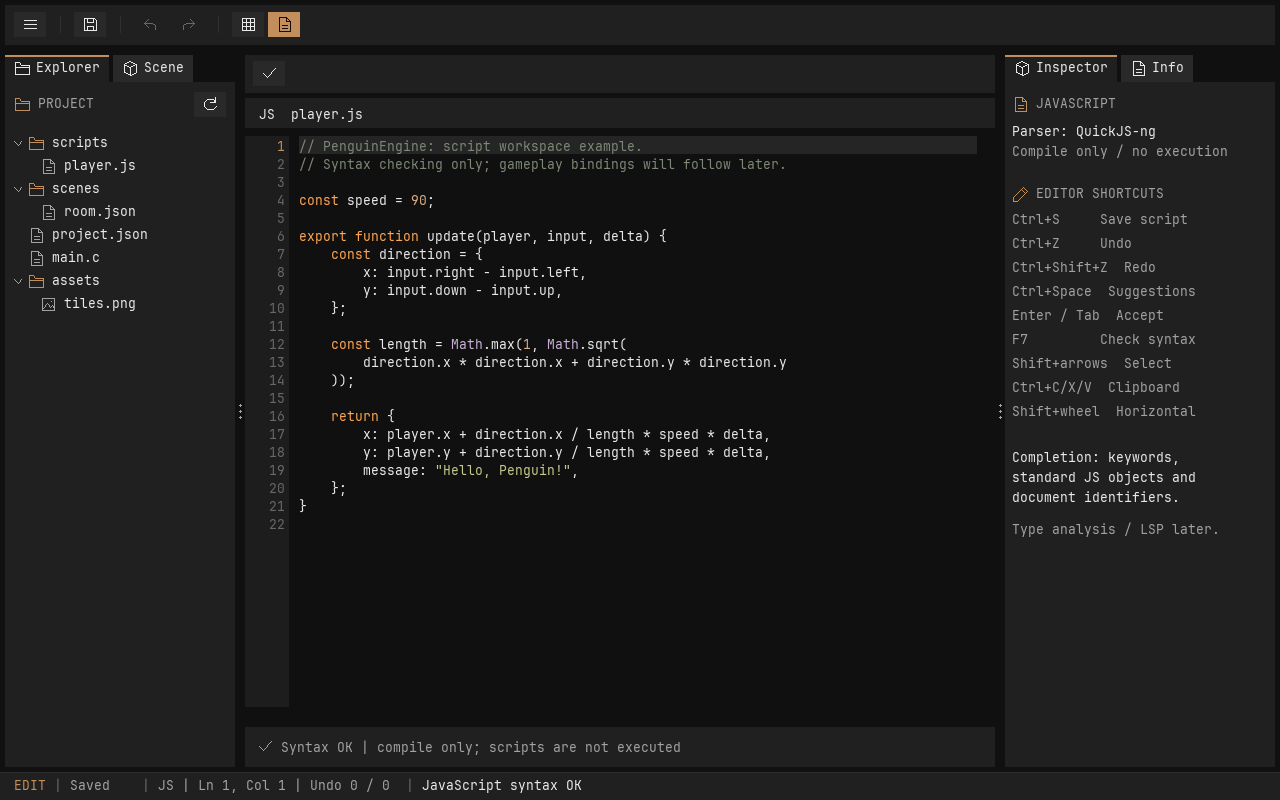
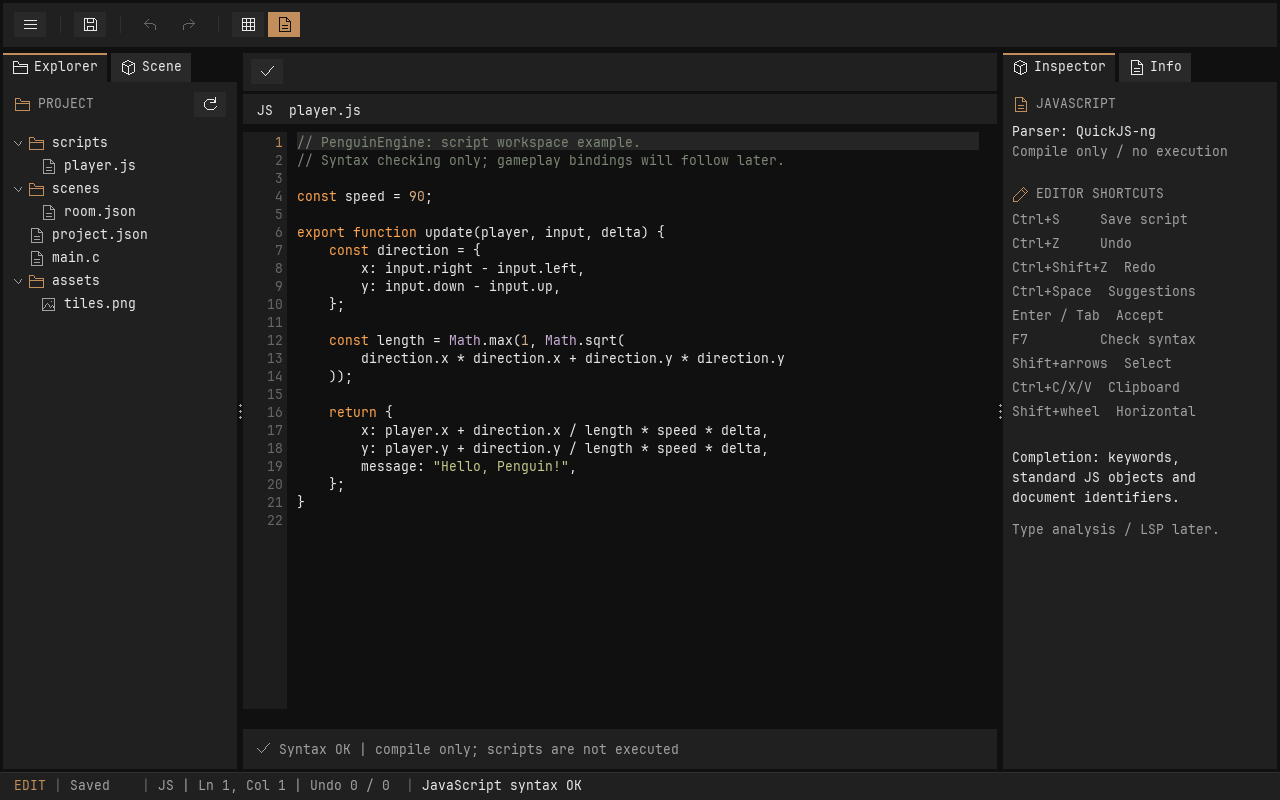
Reduce editor panel spacing to three pixels

diff --git a/editor/src/main.c b/editor/src/main.c
@@ -12,7 +12,7 @@
 #define TOP 50
 #define TABS 32
 #define BOTTOM 28
-#define PANEL_GAP 5
+#define PANEL_GAP 3
 #define GLOBAL_NAV_X 232
 #define SIDE_TOP (TOP + TABS)
 #define TREE_MAX 256
@@ -1817,8 +1817,10 @@ static bool verify_workspace_tools(void) {
     app.right_width = app.width - app.left_width - 320;
     draw();
     ok = ok && app.viewport.y == TOP + 2 * PANEL_GAP + 70;
-    /* Seven actions fit in row one; Grid is the second action in row two. */
-    smoke_click(LEFT + PANEL_GAP + 8 + 38 + 16, action_y + 32);
+    int columns = (int)((app.viewport.w - 10) / 38);
+    int grid_index = editor_view(UI_MAP_VIEW)->action_count - 1;
+    smoke_click(LEFT + PANEL_GAP + 8 + (grid_index % columns) * 38 + 16,
+                action_y + (grid_index / columns) * 32);
     ok = ok && app.grid != grid && !memcmp(&original, &app.scene, sizeof original) &&
          app.history.cursor == history_cursor && app.script.document.revision == revision &&
          !memcmp(&camera, &app.camera, sizeof camera);

diff --git a/docs/UI_BIBLIOTHEK.md b/docs/UI_BIBLIOTHEK.md
@@ -123,7 +123,7 @@ Editor-Smoke-Tests ziehen beide Spaltentrenner, klappen einen Inspector-Bereich 
 
 Nach Bedarf ergänzen wir Checkboxen/Radio-Buttons, Slider, Dropdowns, allgemeine Text-/Zahlenfelder, Menüleisten, Dialogbausteine und Listen-/Baumansichten. Dazu gehören später Tab-Navigation, eine bessere Textdarstellung und gespeicherte Benutzerlayouts. Jede Komponente soll einen kleinen Daten-/Eingabeteil und eine getrennte Darstellung erhalten. Freies Docking und ein vollständiges IDE-Framework bleiben größere, separate Aufgaben.
 
-Der Editor verwendet `UI_CANVAS` (#101010) als dunkle Grundfläche und `UI_PANEL` (#202020) für abgesetzte Panels. Toolbar, Dateibaum und Inspector haben 5 px Außenabstand. Buttons verwenden #292929, Hover #393939; die orange Akzentfarbe bleibt erhalten. Map- und Script-Arbeitsflächen berücksichtigen dieselben Abstände bei Darstellung und Eingabe.
+Der Editor verwendet `UI_CANVAS` (#101010) als dunkle Grundfläche und `UI_PANEL` (#202020) für abgesetzte Panels. Toolbar, Dateibaum und Inspector haben 3 px Außenabstand. Buttons verwenden #292929, Hover #393939; die orange Akzentfarbe bleibt erhalten. Map- und Script-Arbeitsflächen berücksichtigen dieselben Abstände bei Darstellung und Eingabe.
 
 
 Die Seitenpanels verwenden ebenfalls `UiTabs`: links **Explorer / Scene**, rechts **Inspector / Info**. Die beiden Panel-Tabgruppen und die globale Arbeitsbereichsauswahl haben unabhängige Auswahl und Reihenfolge; Tabs können innerhalb ihrer Gruppe umsortiert werden. Scene listet die lebenden Entities der bearbeiteten Szene. Ein Klick wählt die Entity aus, aktiviert Map und Inspector und ändert keine Szenendaten. Während Play oder einer laufenden Bearbeitung ist diese Auswahl gesperrt. Info zeigt Kartengröße, Tilegröße, Ebenen-/Entity-Anzahl und Tastenkürzel. Explorer, Scene und Info behalten eigene Scrollpositionen. Zusätzliche Ansichten können später mit einer stabilen Tab-ID und einem eigenen Inhaltsrenderer ergänzt werden; gruppenübergreifendes Docking ist noch nicht vorhanden.
@@ -151,4 +151,4 @@ Für einen weiteren Bereich eine neue stabile ID, eigenen Datenzustand, Toolbar-
 
 Werkzeugbuttons bleiben Icons mit Tooltips. `action_count` bestimmt die benötigten Zeilen; bei schmaler mittlerer Spalte werden die Aktionen auf weitere Zeilen verteilt. Der Canvas beginnt unter der vollständigen Toolbar, und alle Toolbar-Zeilen erhalten Eingabevorrang vor Karte/Text. F5 startet ausschließlich im Map-Bereich; während Play ist der Wechsel zu anderen Editoren gesperrt. Die Syntaxprüfung steht nur einmal in der Scripts-Werkzeugleiste; die Dokumentkopfzeile zeigt den Dateinamen.
 
-Die Statusleiste ist 28 px hoch und zeigt EDIT/PLAY, Saved/Modified, Dokumentdetails und die letzte Meldung in einer Zeile. Die Meldung folgt der gemessenen Breite der Details und wird bei Platzmangel rechts abgeschnitten, ohne andere Angaben zu überdecken. Die zentralen Panel-Abstände betragen 5 px.
+Die Statusleiste ist 28 px hoch und zeigt EDIT/PLAY, Saved/Modified, Dokumentdetails und die letzte Meldung in einer Zeile. Die Meldung folgt der gemessenen Breite der Details und wird bei Platzmangel rechts abgeschnitten, ohne andere Angaben zu überdecken. Die zentralen Panel-Abstände betragen 3 px.

diff --git a/docs/TESTPLAN.md b/docs/TESTPLAN.md
@@ -37,7 +37,7 @@ Die automatisierten Tests wurden in der Entwicklungsumgebung headless ausgeführ
 
 ## Gemeinsame UI und Flat-Layout
 
-1. Panel-Abstände prüfen: Toolbar, Dateibaum und Inspector heben sich mit hellerem Grau und 5 px dunklem Zwischenraum ab; beim Spaltenziehen/Fensterresize bleiben die Abstände erhalten. Map-Pinsel, Zoom und Skript-Auswahl treffen nach dem Einrücken weiterhin korrekt. Buttons/Tabs prüfen: gerade Kanten, flächige Farben, aktives Orange und gut lesbare Beschriftung. Save und Play/Stop zeigen nur Icons; Tooltips und Ctrl+S/F5 funktionieren weiterhin. Außerhalb der Karte ist die Arbeitsfläche heller grau; beim Zoomen/Verschieben bleiben leere und transparente Tiles innerhalb der Karte dunkel.
+1. Panel-Abstände prüfen: Toolbar, Dateibaum und Inspector heben sich mit hellerem Grau und 3 px dunklem Zwischenraum ab; beim Spaltenziehen/Fensterresize bleiben die Abstände erhalten. Map-Pinsel, Zoom und Skript-Auswahl treffen nach dem Einrücken weiterhin korrekt. Buttons/Tabs prüfen: gerade Kanten, flächige Farben, aktives Orange und gut lesbare Beschriftung. Save und Play/Stop zeigen nur Icons; Tooltips und Ctrl+S/F5 funktionieren weiterhin. Außerhalb der Karte ist die Arbeitsfläche heller grau; beim Zoomen/Verschieben bleiben leere und transparente Tiles innerhalb der Karte dunkel.
 2. Beide Spaltentrenner ziehen, auch über ihren ursprünglichen Bereich hinaus. Mindestbreiten erhalten die mittlere Arbeitsfläche. Keine Tiles oder Texte dürfen dabei verändert werden.
 3. Rechts Inspector-Bereiche ein-/ausklappen und die Tile-Palette bei geänderter Spaltenbreite prüfen. Rename und Sortieraktionen bleiben erreichbar.
 4. Mit vielen Dateien, vier Ebenen/ausgewählter Entity und langen Scripts Scrollbars prüfen: Mausrad, Thumb-Ziehen und Track-Klicks. Ausgeblendete Controls dürfen nicht anklickbar sein.
